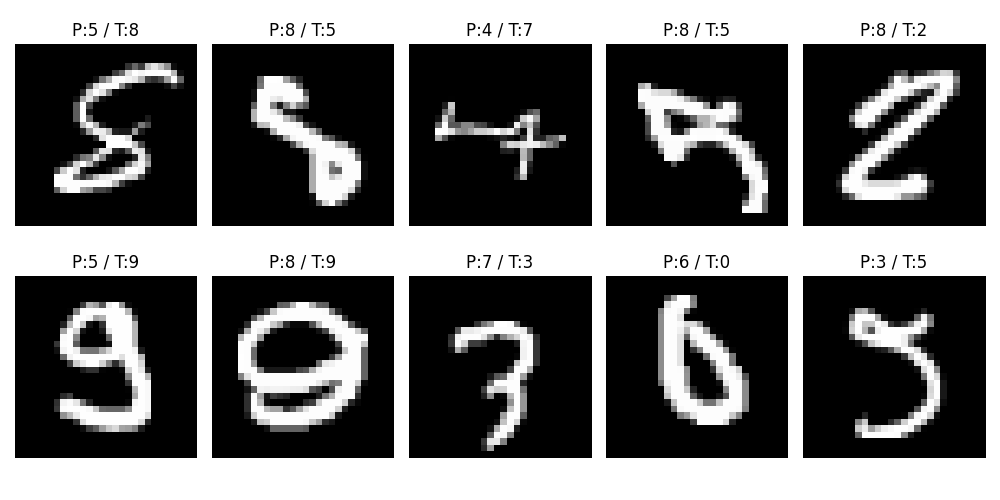
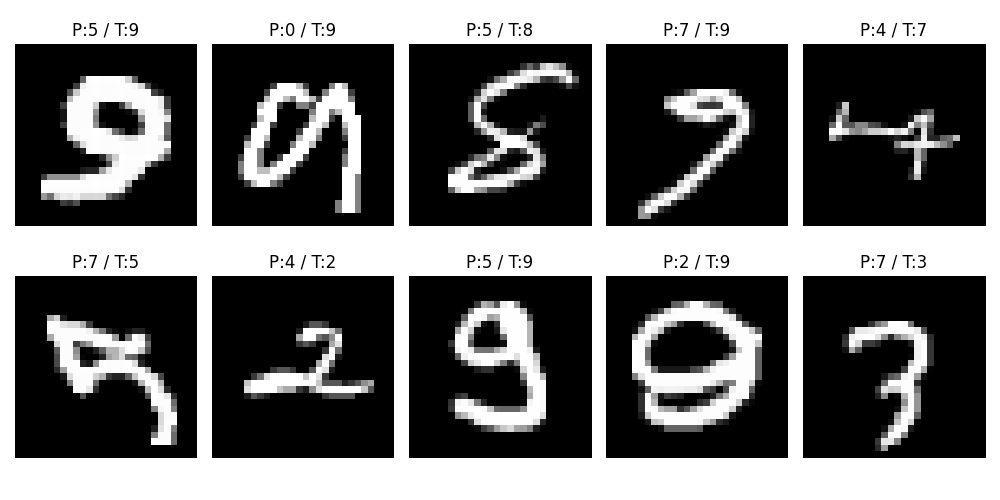
MNIST ML project: LR + CNN + Streamlit UI

diff --git a/app.py b/app.py
@@ -1,0 +1,63 @@
+import streamlit as st
+import numpy as np
+from PIL import Image
+import tensorflow as tf
+from streamlit_drawable_canvas import st_canvas
+
+# =========================
+# Load Model
+# =========================
[email redacted]_resource
+def load_model():
+    return tf.keras.models.load_model(
+        "saved_model/cnn_model.keras",
+        compile=False
+    )
+
+model = load_model()
+
+st.title("Handwritten Digit Recognizer")
+st.write("Draw a digit (0-9) and let CNN predict it!")
+
+# =========================
+# Canvas (drawing area)
+# =========================
+canvas_result = st_canvas(
+    fill_color="black",
+    stroke_width=10,
+    stroke_color="white",
+    background_color="black",
+    height=280,
+    width=280,
+    drawing_mode="freedraw",
+    key="canvas",
+)
+
+# =========================
+# Predict Button
+# =========================
+if st.button("Predict"):
+
+    if canvas_result.image_data is not None:
+
+        # Convert canvas to image
+        img = canvas_result.image_data.astype(np.uint8)
+        img = Image.fromarray(img).convert("L")
+
+        # Resize to MNIST format
+        img = img.resize((28, 28))
+
+        # Normalize
+        img = np.array(img) / 255.0
+
+        # Reshape for CNN
+        img = img.reshape(1, 28, 28, 1)
+
+        # Prediction
+        pred = model.predict(img)
+        result = np.argmax(pred)
+        confidence = np.max(pred)
+
+        # Output
+        st.subheader(f"Prediction: {result}")
+        st.write(f"Confidence: {confidence:.2%}")

diff --git a/src/train_cnn.py b/src/train_cnn.py
@@ -48,5 +48,7 @@ def train_cnn(x_train_cnn, y_train):
         batch_size=128,
         validation_split=0.2
     )
-
+    
+    model_cnn.save("saved_model/cnn_model.keras")
+    
     return model_cnn, history

diff --git a/README.md b/README.md
@@ -1,137 +1,113 @@
-=========================================================
-🧠 HANDWRITTEN DIGIT CLASSIFICATION (MNIST)
-=========================================================
+# 🧠 Handwritten Digit Classification (MNIST)
 
-This project compares Machine Learning vs Deep Learning
-on handwritten digit classification using the MNIST dataset.
+Compare Machine Learning and Deep Learning models on MNIST handwritten digit recognition.
 
-Models:
+---
 
-Logistic Regression (with PCA)
-Convolutional Neural Network (CNN)
+# 📌 Models
 
-Goal:
-Understand performance differences between classical ML and deep learning.
+- Logistic Regression + PCA
+- Convolutional Neural Network (CNN)
+- Streamlit Drawing App
 
-=========================================================
-📊 RESULTS
-=========================================================
-Model Method Accuracy
+---
 
-Logistic Regression PCA + Linear Model ~91.6%
-CNN Convolutional Neural Network ~98.3%
+# 📊 Results
 
+| Model | Accuracy |
+|---|---|
+| Logistic Regression | ~91.6% |
+| CNN | ~98.3% |
+
+✔ CNN learns image features automatically  
 ✔ CNN significantly outperforms Logistic Regression
-✔ Because CNN learns spatial image features automatically
 
-=========================================================
-🧠 KEY CONCEPTS
-=========================================================
-1. ML vs DL Pipeline Comparison
-Classical ML: Feature engineering (PCA) → Model
-Deep Learning: Raw image → Feature learning → Model
-2. Feature Engineering vs Representation Learning
-PCA = manual compression
-CNN = automatic feature extraction
-3. Evaluation Metrics
-Accuracy
-Confusion Matrix
-Visual prediction comparison
-=========================================================
-📁 PROJECT STRUCTURE
-=========================================================
+---
 
-ml-mini-project/
+# 📁 Project Structure
+
+```text
+ML-MINI-PROJECT/
 │
-├── src/
-│ preprocess.py → Data preprocessing (LR + CNN)
-│ train_lr.py → Logistic Regression model
-│ train_cnn.py → CNN model
-│ evaluate.py → Evaluation + confusion matrix
-│ visualize.py → Visualization tools
-│
+├── data/
+├── notebooks/
 ├── outputs/
-│ confusion_matrix_lr.png
-│ confusion_matrix_cnn.png
-│ sample_predictions.png
-│
-├── main.py → Pipeline entry point
+├── saved_model/
+│   └── cnn_model.keras
+├── src/
+│   ├── preprocess.py
+│   ├── train_lr.py
+│   ├── train_cnn.py
+│   ├── evaluate.py
+│   └── visualize.py
+├── app.py
+├── main.py
+├── requirements.txt
 └── README.md
+```
 
-=========================================================
-🚀 HOW TO RUN
-=========================================================
+---
 
-Step 1: Install dependencies
+# 🚀 Installation
 
-pip install numpy pandas scikit-learn matplotlib tensorflow
+```bash
+pip install -r requirements.txt
+```
 
-Step 2: Run project
+---
 
+# ▶️ Run Training
+
+```bash
 python main.py
+```
 
-=========================================================
-📦 OUTPUT FILES
-=========================================================
+Outputs are saved in:
 
-After execution, results will be saved in:
+```text
+outputs/
+```
 
-/outputs
+---
 
-Files:
+# 🎨 Run Streamlit App
 
-confusion_matrix_lr.png
-confusion_matrix_cnn.png
-sample_predictions.png
-=========================================================
-⚙️ METHODOLOGY
-=========================================================
+Launch the interactive handwritten digit recognizer:
 
-Logistic Regression Pipeline:
+```bash
+streamlit run app.py
+```
 
-Standardization
-PCA (95% variance retained)
-Logistic Regression classifier
+Features:
 
-CNN Pipeline:
+- Draw digits with mouse
+- CNN real-time prediction
+- Uses trained `cnn_model.keras`
 
-Normalize pixel values (0–1)
-Reshape to (28, 28, 1)
-Convolutional Neural Network
-=========================================================
-📈 INSIGHTS
-=========================================================
+---
 
-✔ Logistic Regression:
+# ⚙️ Methodology
 
-Strong baseline
-Limited by linear decision boundaries
+## Logistic Regression
 
-✔ CNN:
+- Standardization
+- PCA
+- Logistic Regression classifier
 
-Learns spatial patterns
-Much higher accuracy
+## CNN
 
-✔ Conclusion:
-CNN > traditional ML for image tasks
+- Normalize images
+- Convolution + Pooling + Dense layers
 
-=========================================================
-🧠 WHAT I LEARNED
-=========================================================
-End-to-end ML pipeline design
-Difference between classical ML and deep learning
-Model evaluation and comparison
-Modular project structure (src / main / outputs)
-Reproducible ML workflow
-=========================================================
-🔮 FUTURE IMPROVEMENTS
-=========================================================
-Hyperparameter tuning
-Data augmentation
-Add more models (SVM, Random Forest)
-Deploy with Streamlit / Flask
-=========================================================
-👤 AUTHOR
-=========================================================
+---
 
-Student project focused on Machine Learning & Computer Vision fundamentals.
+# 📈 Conclusion
+
+CNN achieves much higher accuracy because it automatically learns spatial image features.
+
+---
+
+# 👤 Author
+
+Student
+